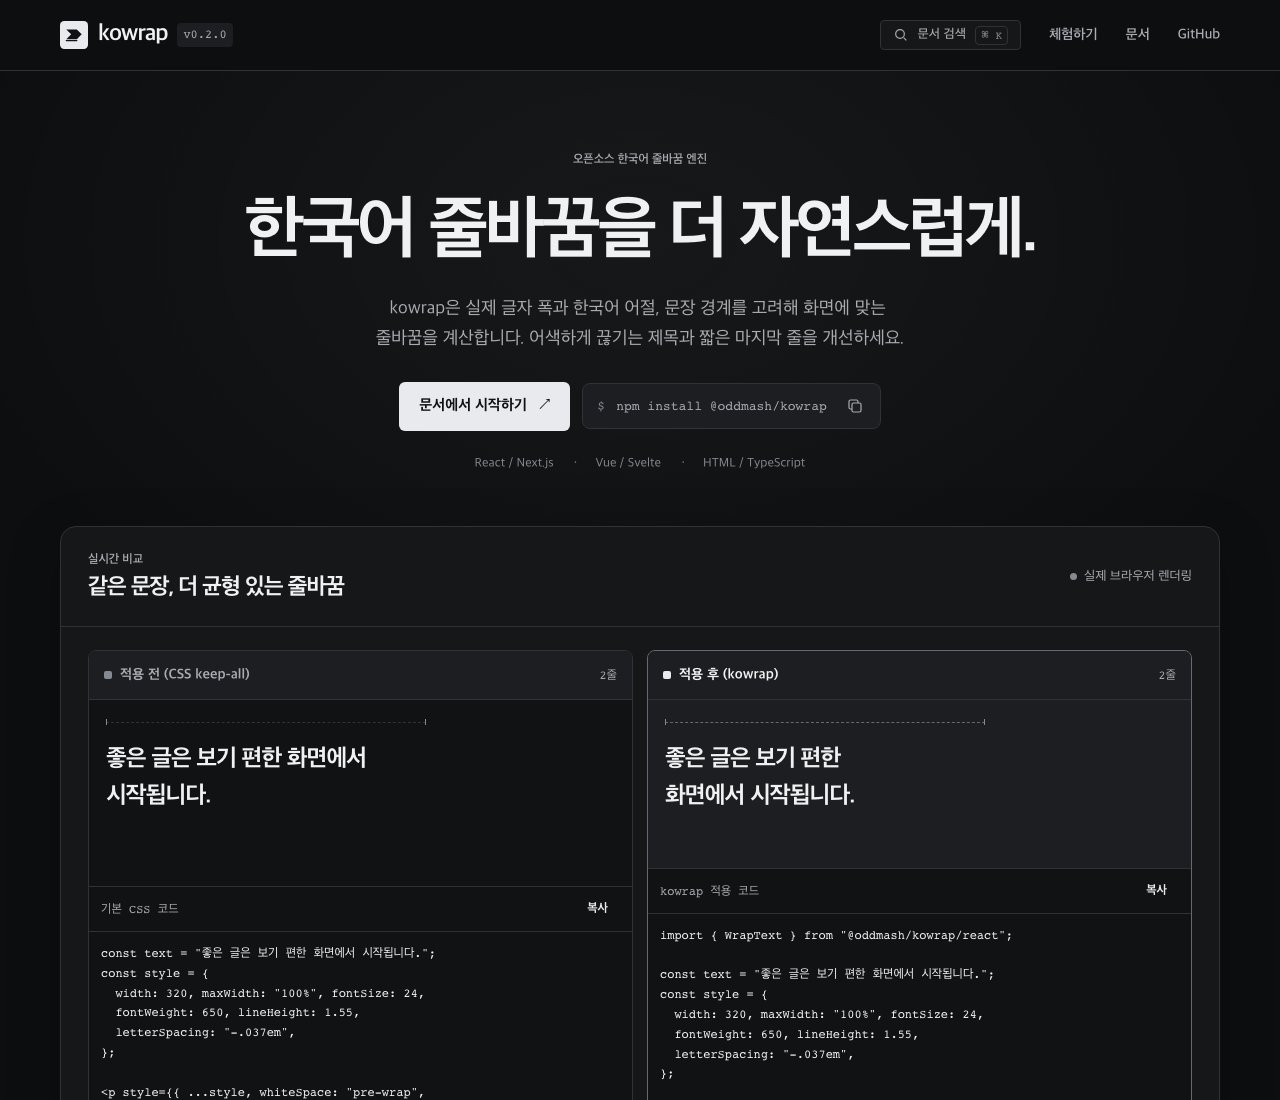
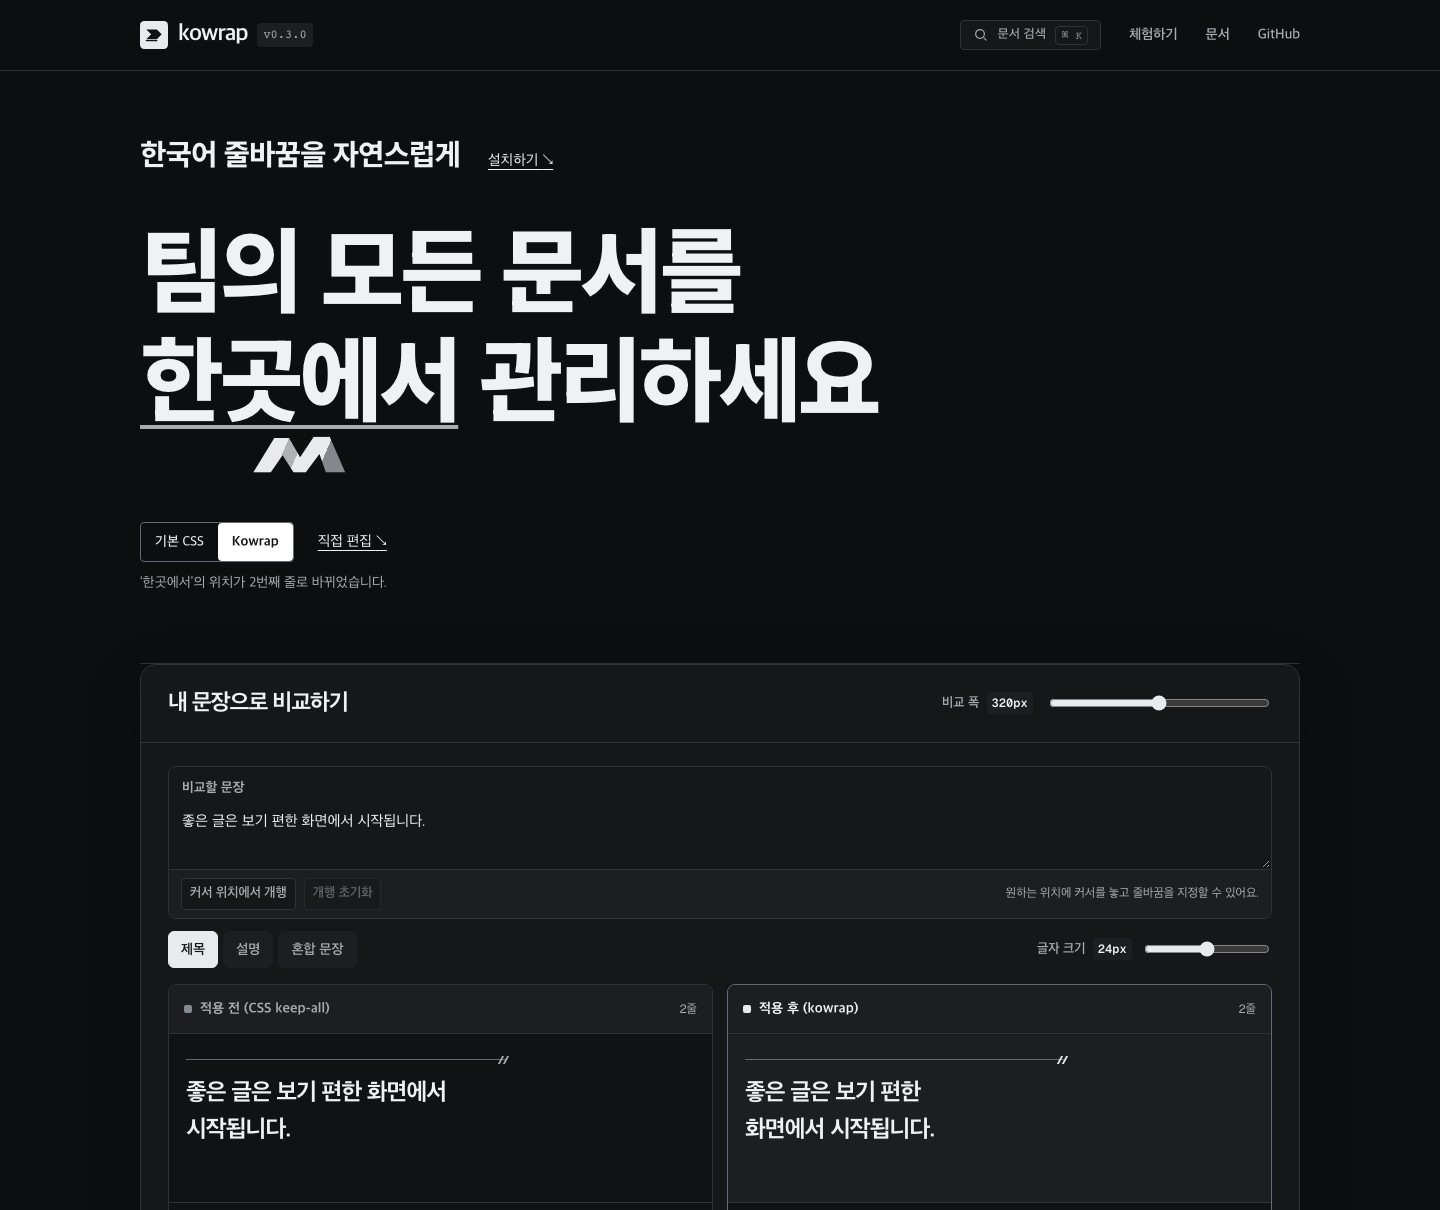
Refresh the README and prepare Kowrap v0.3.1

diff --git a/README.md b/README.md
@@ -6,7 +6,26 @@
 
 [체험하기](https://oddmash.github.io/kowrap/#playground) | [문서](https://oddmash.github.io/kowrap/docs/) | [npm](https://www.npmjs.com/package/@oddmash/kowrap)
 
-[![kowrap 공개 사이트에서 CSS 기본 줄바꿈과 kowrap 적용 결과를 나란히 비교한 화면](docs/assets/kowrap-live.jpg)](https://oddmash.github.io/kowrap/#playground)
+[![Kowrap 공개 랜딩에서 줄바꿈을 비교하고 문장을 편집하는 화면](docs/assets/kowrap-live.jpg)](https://oddmash.github.io/kowrap/#playground)
+
+## HTML에서 바로 실행하기
+
+아래 코드를 `index.html`로 저장하고 인터넷에 연결된 브라우저에서 열면 jsDelivr가 Kowrap `0.3.0`을 불러옵니다.
+
+```html
+<!doctype html>
+<html lang="ko">
+<meta charset="utf-8">
+<title>Kowrap 예제</title>
+<p id="title" style="max-width: 220px; font-size: 24px">팀의 모든 문서를 한곳에서 관리하세요</p>
+<script type="module">
+  import { mountKowrap } from 'https://cdn.jsdelivr.net/npm/@oddmash/kowrap@0.3.0/dist/dom/index.js/+esm';
+
+  const title = document.getElementById('title');
+  mountKowrap(title, { text: title.textContent });
+</script>
+</html>
+```
 
 ## 특징
 

diff --git a/CHANGELOG.md b/CHANGELOG.md
@@ -1,5 +1,11 @@
 # 변경 이력
 
+## [0.3.1](docs/releases/v0.3.1.md)
+
+- Refresh the README with a screenshot of the public landing and a standalone HTML example pinned to Kowrap 0.3.0 on jsDelivr.
+- Keep the README, landing, and HTML guide examples in sync and run the copied HTML in three browser engines.
+- Install all three browser engines during npm release verification.
+
 ## [0.3.0](docs/releases/v0.3.0.md)
 
 - Preserve nested inline markup when wrapping text in React, plain HTML, Vue, and Svelte.

diff --git a/docs/releases/v0.3.1.md b/docs/releases/v0.3.1.md
@@ -1,0 +1,7 @@
+# Kowrap v0.3.1
+
+- The README shows the current public landing with the comparison and editor in view.
+- The README, landing, and HTML guide share a standalone example. Save it as `index.html` and open it in a browser to load Kowrap 0.3.0 from jsDelivr.
+- Release verification installs Chromium, Firefox, and WebKit to run the full browser suite.
+
+This patch ships documentation and release verification updates.
